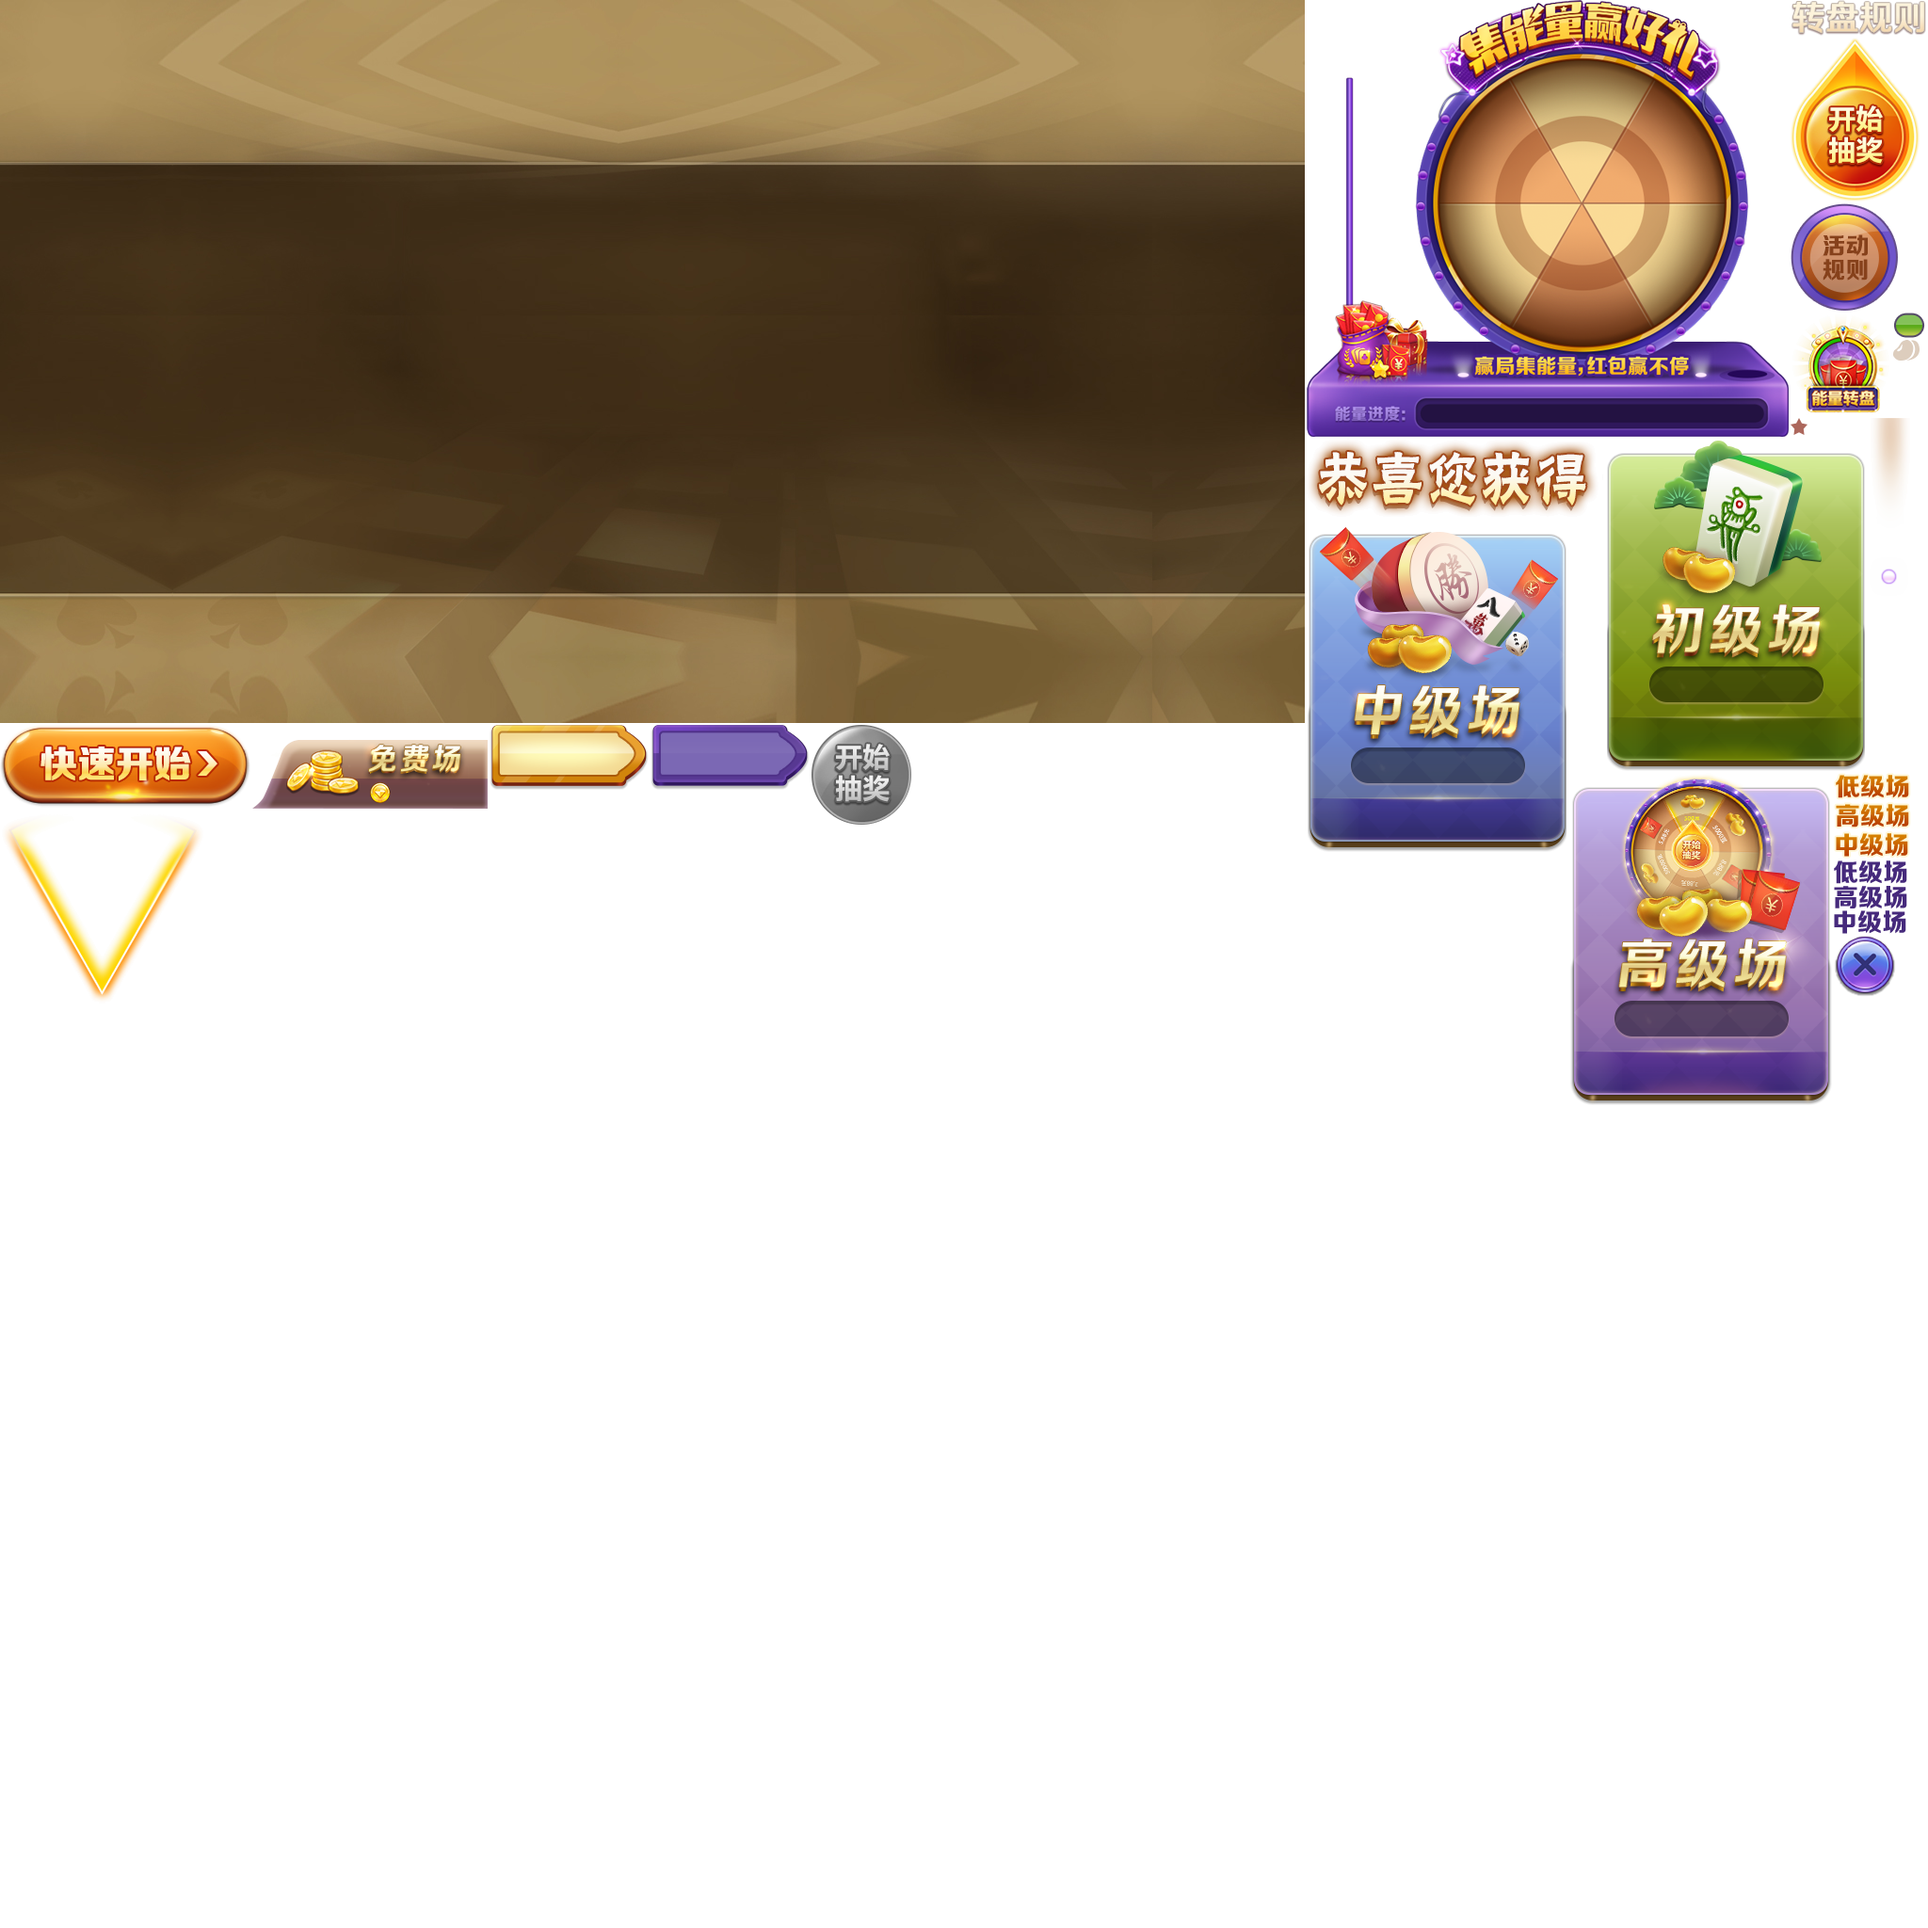
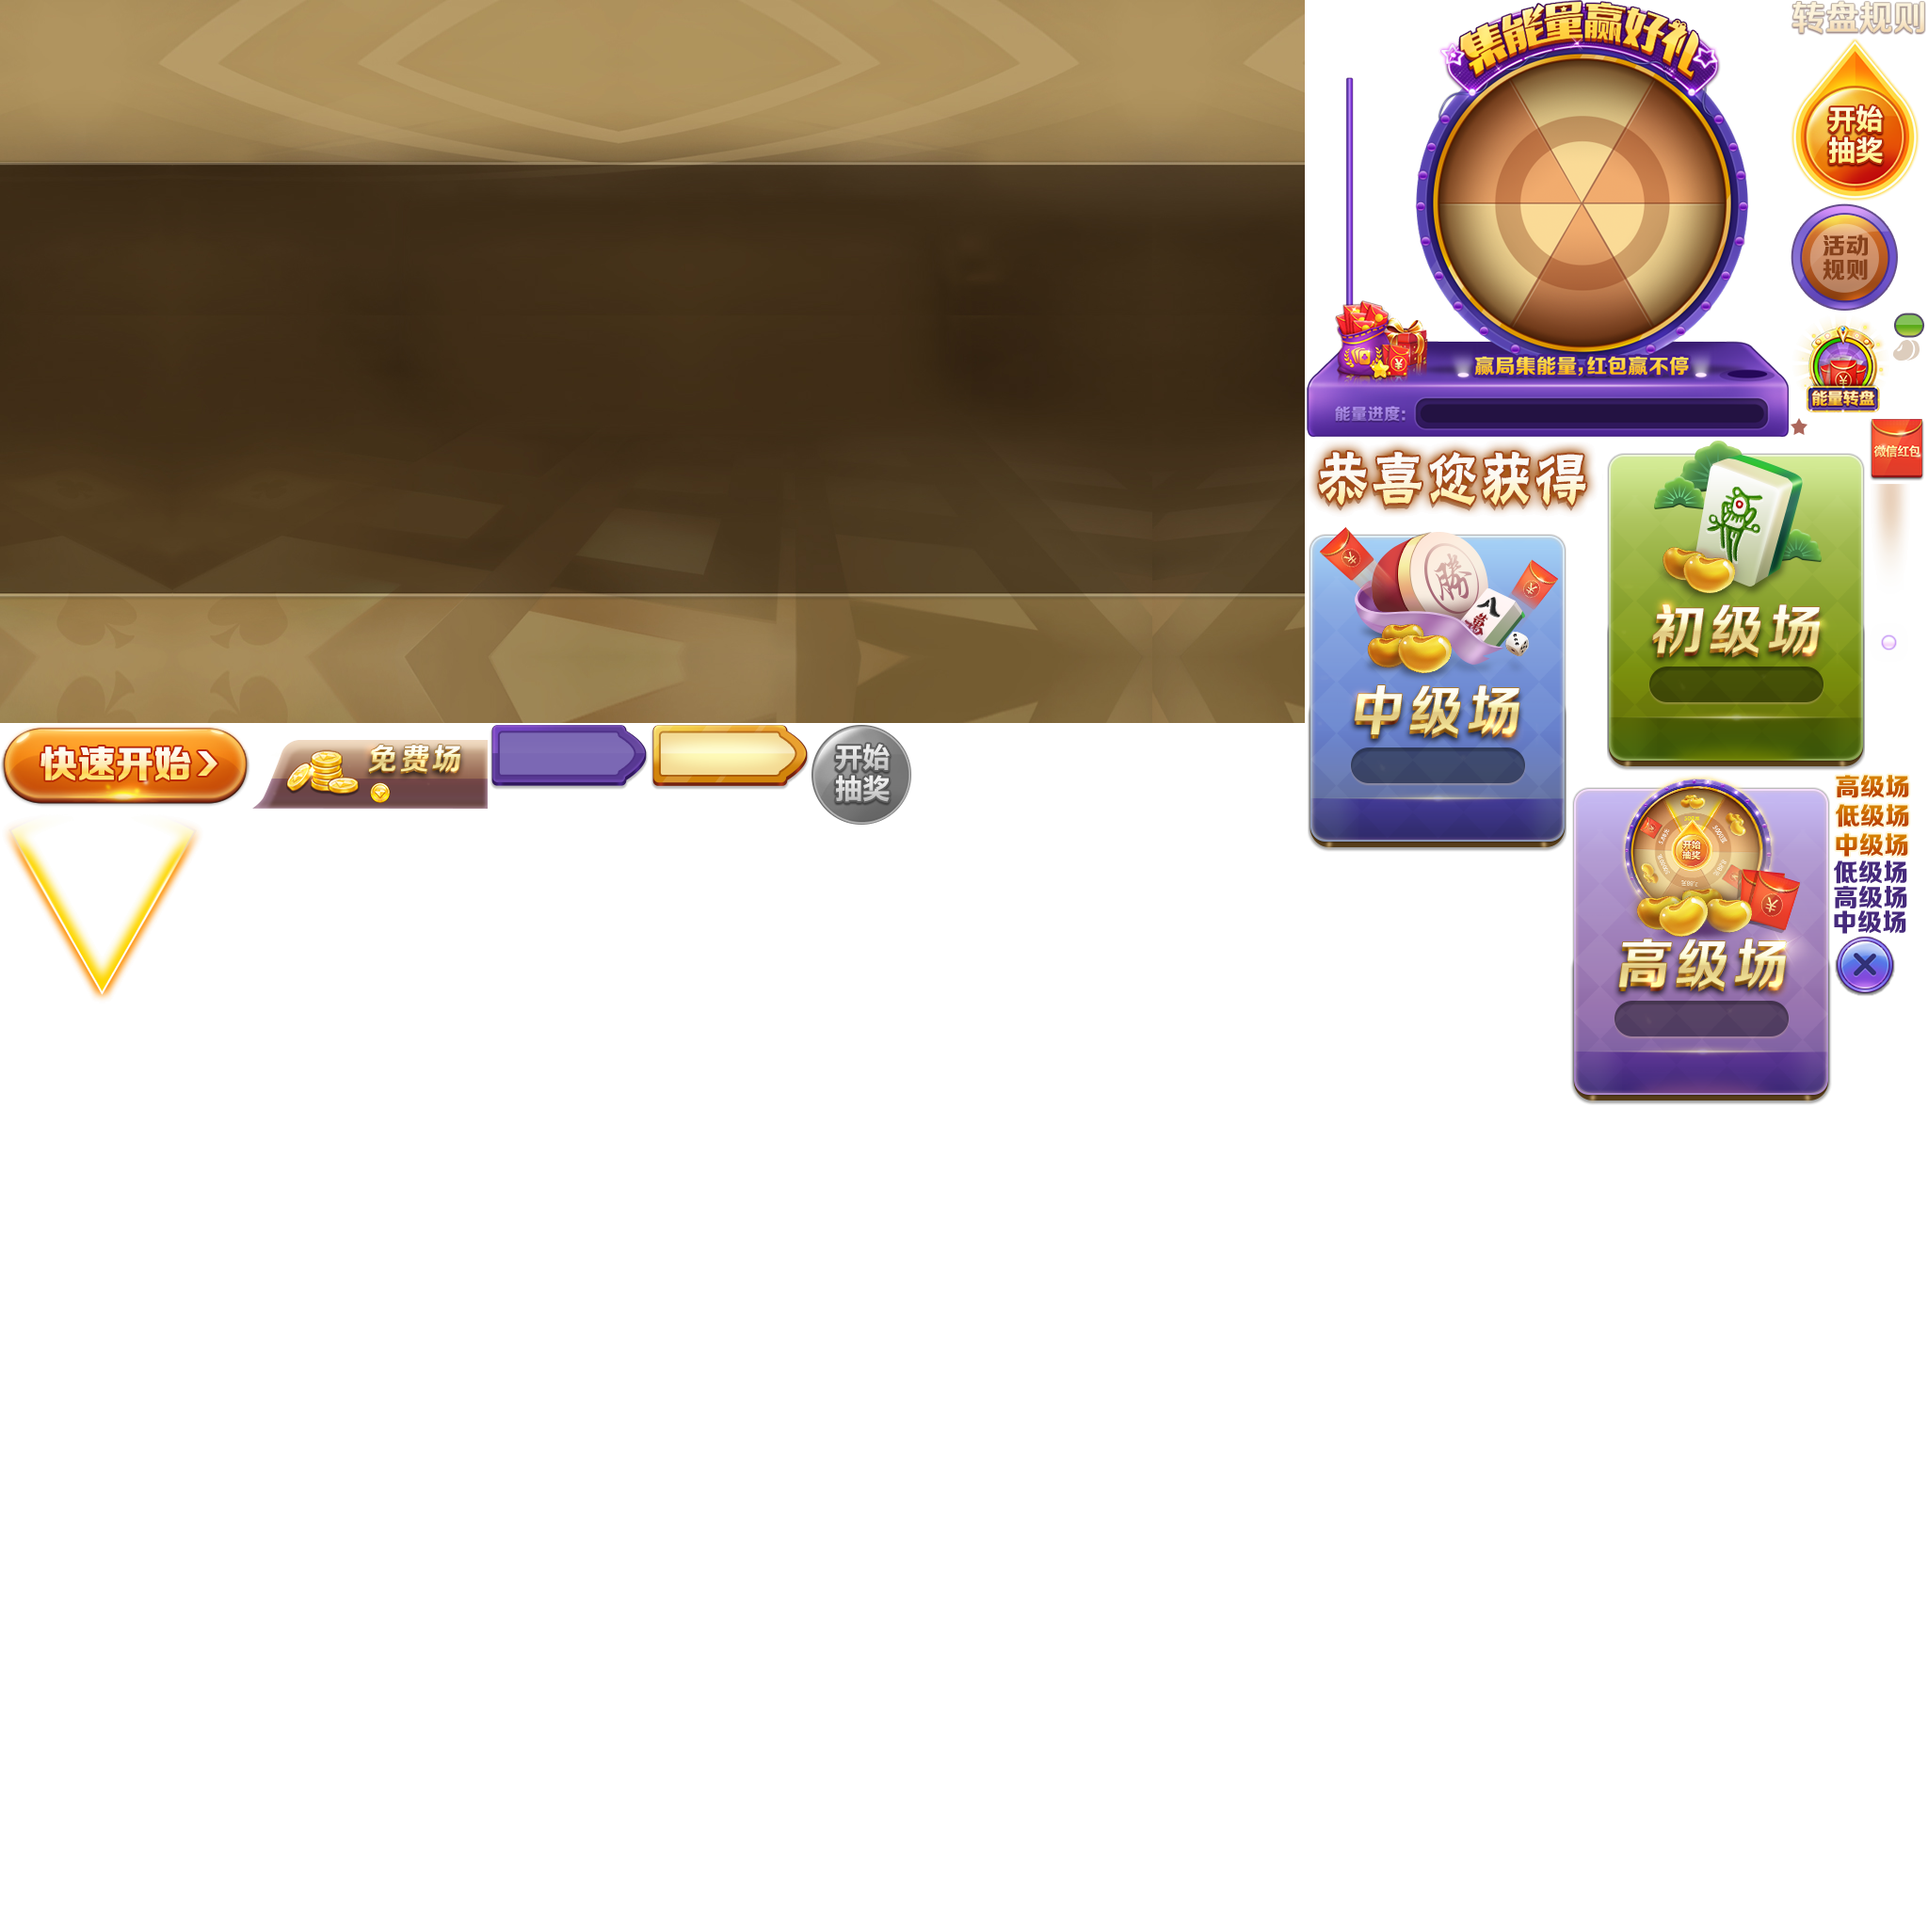
能量转盘

Changed region(s): [[0.25, 0.375, 0.4375, 0.4062], [0.9688, 0.2188, 1.0, 0.2812], [0.9375, 0.4062, 0.9688, 0.4375]]

diff --git a/assets/Script/modules/lobby/views/JoyBeanView.ts b/assets/Script/modules/lobby/views/JoyBeanView.ts
@@ -1,10 +1,13 @@
-import { GameError } from "../errorCode/GameError";
+
+import { GameError } from "../errorCode/ErrorCodeExports";
 import { CommonFunction, DataStore, Dialog, GameModuleLaunchArgs, KeyConstants, LobbyModuleInterface, Logger } from "../lcore/LCoreExports";
+// tslint:disable-next-line:no-require-imports
+import long = require("../protobufjs/long");
 import { proto } from "../protoHH/protoHH";
 import { Share } from "../shareUtil/ShareExports";
+import { LotteryView } from "./joyBean/LotteryView";
 import { ShopView, TabType } from "./ShopView";
 import { UserInfoTabType, UserInfoView } from "./UserInfoView";
-import Long = require("../protobufjs/long");
 const { ccclass } = cc._decorator;
 
 /**
@@ -73,6 +76,9 @@ export class JoyBeanView extends cc.Component {
         const shopBtn = this.view.getChild("shopBtn");
         shopBtn.onClick(this.onShopBtnClick, this);
 
+        const lotteryViewBtn = this.view.getChild("lotteryViewBtn");
+        lotteryViewBtn.onClick(this.onLotteryViewBtnClick, this);
+
         const juniorBtn = this.view.getChild("junior").asCom;
         juniorBtn.onClick(() => { this.onJoinRoomCliclk(0); }, this); //初级场
         this.setJoyBtnInfo(juniorBtn, this.rooms[0]);
@@ -84,6 +90,7 @@ export class JoyBeanView extends cc.Component {
         const seniorBtn = this.view.getChild("senior").asCom;
         seniorBtn.onClick(() => { this.onJoinRoomCliclk(2); }, this); //高级场
         this.setJoyBtnInfo(seniorBtn, this.rooms[2]);
+
     }
     private onCloseBtnClick(): void {
         this.destroy();
@@ -115,13 +122,17 @@ export class JoyBeanView extends cc.Component {
         view.showView(TabType.Dou);
     }
 
+    private onLotteryViewBtnClick(): void {
+        this.addComponent(LotteryView);
+    }
+
     private onJoinRoomCliclk(index: number): void {
         Logger.debug("rooms : ", this.rooms[index]);
         const room = this.rooms[index];
         const req = {
             casino_id: room.casino_id,
             room_id: room.id,
-            table_id: Long.fromNumber(0),
+            table_id: long.fromNumber(0),
             ready: true
         };
 

diff --git a/assets/Script/modules/lobby/views/joyBean/LotteryRuleView.ts b/assets/Script/modules/lobby/views/joyBean/LotteryRuleView.ts
@@ -10,10 +10,6 @@ export class LotteryRuleView extends cc.Component {
     private win: fgui.Window;
     private lm: LobbyModuleInterface;
 
-    public show(): void {
-        this.initView();
-        this.win.show();
-    }
     protected onLoad(): void {
         this.lm = <LobbyModuleInterface>this.getComponent("LobbyModule");
         const loader = this.lm.loader;
@@ -21,7 +17,6 @@ export class LotteryRuleView extends cc.Component {
         const view = fgui.UIPackage.createObject("lobby_joy_bean", "lotteryRuleView").asCom;
 
         CommonFunction.setViewInCenter(view);
-
         const mask = view.getChild("mask");
         CommonFunction.setBgFullScreenSize(mask);
 
@@ -32,6 +27,8 @@ export class LotteryRuleView extends cc.Component {
         win.modal = true;
 
         this.win = win;
+        this.initView();
+        this.win.show();
     }
 
     protected onDestroy(): void {

diff --git a/assets/Script/modules/lobby/views/joyBean/LotteryView.ts b/assets/Script/modules/lobby/views/joyBean/LotteryView.ts
@@ -11,10 +11,6 @@ export class LotteryView extends cc.Component {
     private win: fgui.Window;
     private lm: LobbyModuleInterface;
 
-    public show(): void {
-        this.initView();
-        this.win.show();
-    }
     protected onLoad(): void {
         this.lm = <LobbyModuleInterface>this.getComponent("LobbyModule");
         const loader = this.lm.loader;
@@ -33,6 +29,8 @@ export class LotteryView extends cc.Component {
         win.modal = true;
 
         this.win = win;
+        this.initView();
+        this.win.show();
     }
 
     protected onDestroy(): void {

diff --git a/assets/Script/modules/lobby/views/joyBean/RewardView.ts b/assets/Script/modules/lobby/views/joyBean/RewardView.ts
@@ -20,7 +20,7 @@ export class Reward {
 
 const rewardConfig: { [key: string]: string } = {
     [REWARD_TYPE.BEAN]: "正在加载中... {0} %",
-    [REWARD_TYPE.RED_BAG]: "正在加载中... {0} %",
+    [REWARD_TYPE.RED_BAG]: "正在加载中... {0} %"
 };
 
 /**
